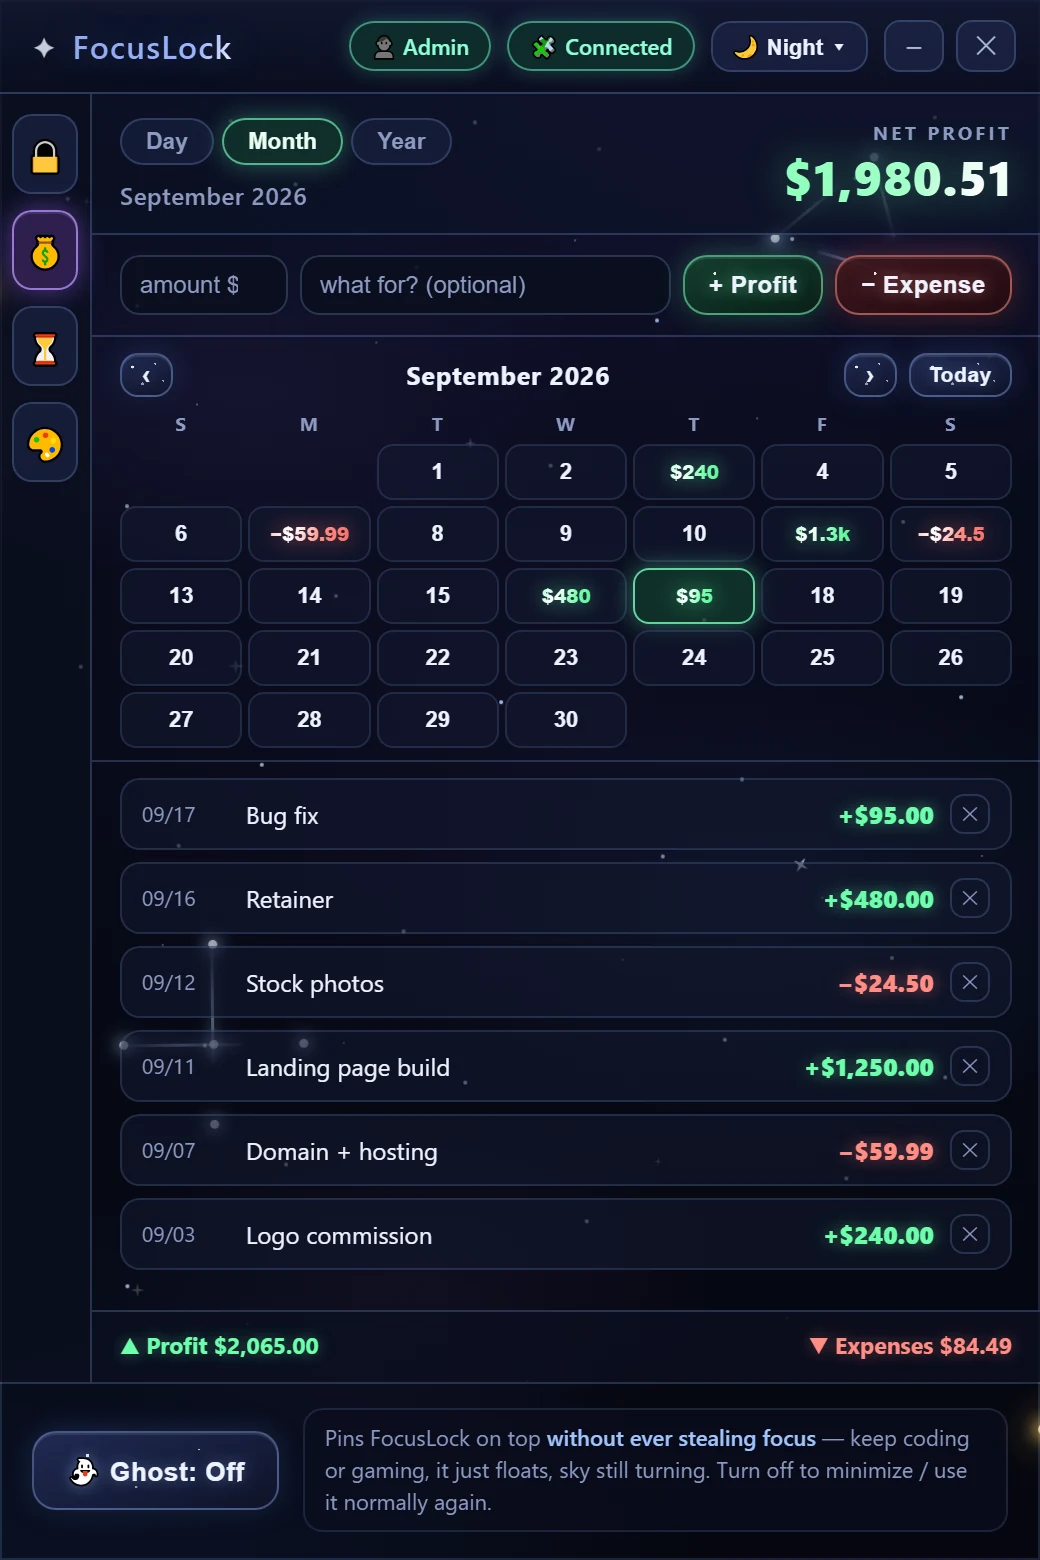
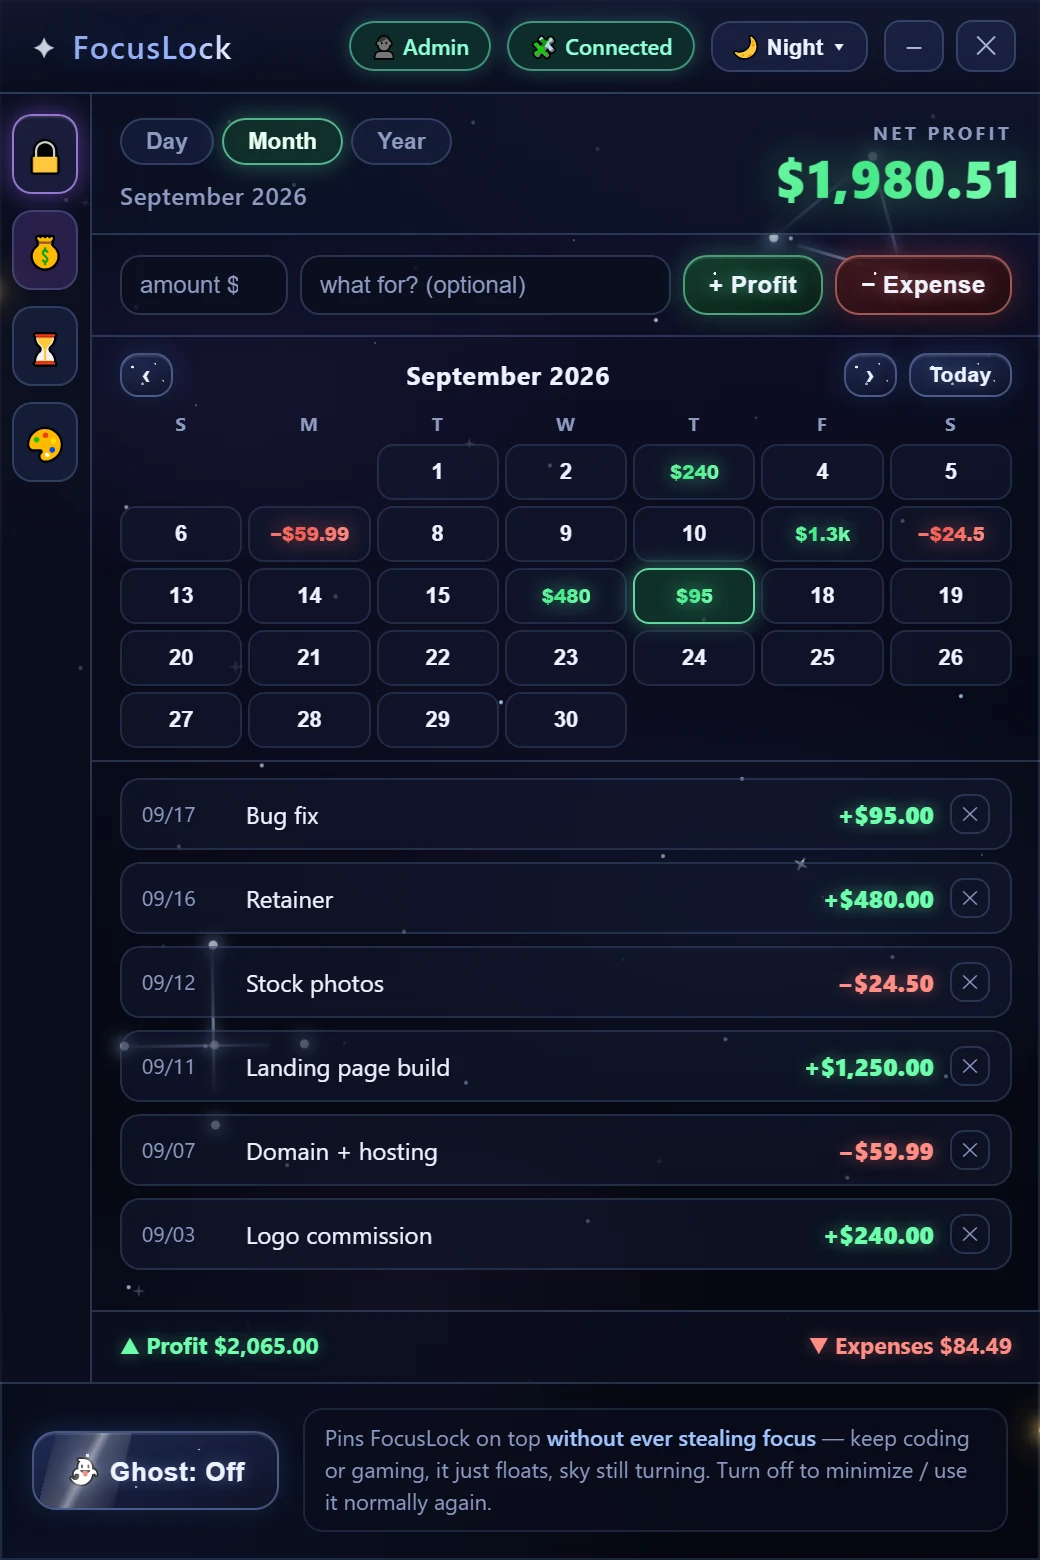
Website for FocusLock 2.1.0

diff --git a/styles.css b/styles.css
@@ -390,6 +390,220 @@ footer {
   color: var(--muted);
 }
 
+/* ============================================================
+   MOTION
+   The same vocabulary as the app: a sky that turns, light that
+   sweeps, things that breathe. Every animation is transform or
+   opacity on its own layer, and all of it is switched off under
+   prefers-reduced-motion at the end of this file.
+   ============================================================ */
+
+/* the nebula photo drifts and breathes, very slowly */
+.hero::before { animation: nebula 90s ease-in-out infinite alternate; }
+
+@keyframes nebula {
+  from { transform: scale(1.06) translate3d(-10px, 0, 0); }
+  to   { transform: scale(1.11) translate3d(10px, -12px, 0); }
+}
+
+/* the star layer sits over the veil but under the text */
+.hero .sky {
+  position: absolute;
+  inset: 0;
+  z-index: 0;
+  overflow: hidden;
+  pointer-events: none;
+}
+
+.hero-copy,
+.hero-shot { position: relative; z-index: 1; }
+
+/* each layer is one element: the stars are a painted box-shadow list,
+   and only the layer's opacity animates */
+.stars {
+  position: absolute;
+  top: 0;
+  left: 0;
+  width: 2px;
+  height: 2px;
+  border-radius: 50%;
+  background: transparent;
+}
+
+.s1 {
+  box-shadow:
+    60px 90px 0 0 #ffffff, 180px 220px 0 0 #dce8ff, 320px 60px 0 0 #ffffff,
+    430px 300px 0 0 #eaf2ff, 520px 150px 0 0 #ffffff, 90px 380px 0 0 #dce8ff,
+    250px 470px 0 0 #ffffff, 610px 420px 0 0 #eaf2ff, 700px 120px 0 0 #ffffff,
+    780px 330px 0 0 #dce8ff, 860px 210px 0 0 #ffffff, 960px 460px 0 0 #eaf2ff,
+    1050px 90px 0 0 #ffffff, 1140px 280px 0 0 #dce8ff, 1220px 400px 0 0 #ffffff,
+    150px 540px 0 0 #eaf2ff, 480px 590px 0 0 #ffffff, 820px 560px 0 0 #dce8ff,
+    1180px 620px 0 0 #ffffff;
+  animation: twinkle 5s ease-in-out infinite;
+}
+
+.s2 {
+  width: 1px;
+  height: 1px;
+  box-shadow:
+    120px 160px 0 0 rgba(180, 205, 255, 0.85), 270px 320px 0 0 rgba(200, 215, 255, 0.75),
+    390px 110px 0 0 rgba(180, 205, 255, 0.8), 560px 250px 0 0 rgba(200, 215, 255, 0.7),
+    650px 520px 0 0 rgba(180, 205, 255, 0.8), 740px 200px 0 0 rgba(200, 215, 255, 0.7),
+    900px 350px 0 0 rgba(180, 205, 255, 0.75), 1010px 170px 0 0 rgba(200, 215, 255, 0.7),
+    1100px 500px 0 0 rgba(180, 205, 255, 0.8), 1260px 230px 0 0 rgba(200, 215, 255, 0.7),
+    40px 260px 0 0 rgba(180, 205, 255, 0.7), 340px 620px 0 0 rgba(200, 215, 255, 0.7),
+    960px 640px 0 0 rgba(180, 205, 255, 0.75);
+  animation: twinkle 7.5s ease-in-out infinite;
+  animation-delay: -3s;
+}
+
+@keyframes twinkle {
+  0%, 100% { opacity: 0.35; }
+  50%      { opacity: 1; }
+}
+
+/* a comet crosses now and then */
+.hero .comet {
+  position: absolute;
+  top: 12%;
+  right: -120px;
+  width: 90px;
+  height: 2px;
+  border-radius: 2px;
+  background: linear-gradient(90deg, rgba(255, 255, 255, 0.95), rgba(160, 200, 255, 0.35) 40%, rgba(160, 200, 255, 0));
+  opacity: 0;
+  animation: comet 19s linear infinite;
+}
+
+.hero .comet.c2 {
+  top: 42%;
+  width: 62px;
+  animation-duration: 27s;
+  animation-delay: -11s;
+}
+
+@keyframes comet {
+  0%, 88% { transform: translate3d(0, 0, 0) rotate(143deg);          opacity: 0; }
+  89%     { transform: translate3d(-70px, 52px, 0) rotate(143deg);   opacity: 0.9; }
+  100%    { transform: translate3d(-720px, 540px, 0) rotate(143deg); opacity: 0; }
+}
+
+/* the app window floats, and its aura breathes with it */
+.hero-shot img { animation: float 8s ease-in-out infinite alternate; }
+
+@keyframes float {
+  from { transform: translate3d(0, 6px, 0); box-shadow: 0 0 60px rgba(130, 90, 255, 0.24), 0 26px 60px rgba(0, 0, 8, 0.66); }
+  to   { transform: translate3d(0, -6px, 0); box-shadow: 0 0 84px rgba(130, 90, 255, 0.36), 0 34px 78px rgba(0, 0, 8, 0.72); }
+}
+
+/* the headline's highlight and the numbers in the strip catch a
+   travelling shine, the same one the app uses on its own figures */
+h1 em,
+.strip-item strong {
+  background-size: 300% 100%;
+  animation: shine 4.5s linear infinite;
+}
+
+.strip-item strong {
+  background-image: linear-gradient(110deg,
+    #cfd9ef 0%, #e8eeff 34%,
+    #ffffff 44%, #f6faff 48%,
+    #cfd9ef 58%, #aebbd8 78%, #cfd9ef 100%);
+  -webkit-background-clip: text;
+  background-clip: text;
+  color: transparent;
+}
+
+.strip-item:nth-child(2) strong { animation-delay: -1.1s; }
+.strip-item:nth-child(3) strong { animation-delay: -2.2s; }
+.strip-item:nth-child(4) strong { animation-delay: -3.3s; }
+
+@keyframes shine {
+  0%   { background-position: 100% 0; }
+  100% { background-position: -200% 0; }
+}
+
+/* a glint sweeps the download buttons */
+.btn-big {
+  position: relative;
+  overflow: hidden;
+  isolation: isolate;
+}
+
+.btn-big::after {
+  content: '';
+  position: absolute;
+  top: -40%;
+  bottom: -40%;
+  left: 0;
+  width: 46px;
+  background: linear-gradient(105deg,
+    rgba(255, 255, 255, 0) 0%,
+    rgba(255, 255, 255, 0.2) 42%,
+    rgba(255, 255, 255, 0.48) 50%,
+    rgba(255, 255, 255, 0.2) 58%,
+    rgba(255, 255, 255, 0) 100%);
+  transform: translateX(-80px) skewX(-14deg);
+  opacity: 0;
+  pointer-events: none;
+  animation: glint 5.5s ease-in-out infinite;
+}
+
+@keyframes glint {
+  0%, 56%   { transform: translateX(-80px) skewX(-14deg); opacity: 0; }
+  60%       { opacity: 1; }
+  80%       { transform: translateX(340px) skewX(-14deg); opacity: 1; }
+  81%, 100% { transform: translateX(340px) skewX(-14deg); opacity: 0; }
+}
+
+/* the glow behind the last call to action breathes — on its own layer,
+   so it scales without repainting the section */
+/* overflow:hidden because the glow below is wider than the section —
+   without it the page gains a horizontal scrollbar */
+.closer { position: relative; isolation: isolate; overflow: hidden; }
+
+.closer::before {
+  content: '';
+  position: absolute;
+  inset: -10% -20% 20%;
+  z-index: -1;
+  background: radial-gradient(closest-side, rgba(120, 80, 220, 0.3), rgba(120, 80, 220, 0) 100%);
+  animation: closerglow 9s ease-in-out infinite alternate;
+}
+
+@keyframes closerglow {
+  from { opacity: 0.55; transform: scale(0.94); }
+  to   { opacity: 1;    transform: scale(1.08); }
+}
+
+/* ---- scroll-driven reveals ----
+   Behind @supports on purpose: where scroll-driven animation isn't
+   available nothing runs and every section is simply visible, which
+   is the one thing a download page must never get wrong. */
+@supports (animation-timeline: view()) {
+  @media (prefers-reduced-motion: no-preference) {
+    .card,
+    .steps li,
+    .gallery figure,
+    .strip-item,
+    details,
+    .honest p,
+    .closer img {
+      animation: rise linear both;
+      animation-timeline: view();
+      animation-range: entry 6% cover 32%;
+    }
+
+    /* the strip reads as one row, so its cells rise together */
+    .strip-item { animation-range: entry 2% cover 22%; }
+  }
+
+  @keyframes rise {
+    from { opacity: 0; transform: translateY(20px); }
+    to   { opacity: 1; transform: none; }
+  }
+}
+
 @media (prefers-reduced-motion: reduce) {
   html { scroll-behavior: auto; }
   * { animation: none !important; transition: none !important; }

diff --git a/index.html b/index.html
@@ -36,6 +36,14 @@
 
 <main id="top">
   <section class="hero">
+    <!-- the sky above the nebula photo: two twinkling star layers and a
+         couple of comets that cross every so often -->
+    <div class="sky" aria-hidden="true">
+      <i class="stars s1"></i>
+      <i class="stars s2"></i>
+      <i class="comet c1"></i>
+      <i class="comet c2"></i>
+    </div>
     <div class="hero-copy">
       <p class="eyebrow">Windows 10 &amp; 11 · 64-bit</p>
       <h1>Disable the distraction.<br><em>Keep</em> it disabled.</h1>
@@ -51,7 +59,7 @@
         <a class="btn btn-ghost btn-big" href="#install">How it works</a>
       </div>
       <p class="fineprint">
-        <span data-version>v2.0.0</span> · installer, no admin rights needed ·
+        <span data-version>v2.1.0</span> · installer, no admin rights needed ·
         installs like any normal program
       </p>
       <p class="platform-note" data-platform-note hidden>
@@ -134,8 +142,8 @@
     </figure>
     <figure>
       <img src="assets/shot-knight.webp" width="520" height="780"
-           alt="The same app in its Knight theme: a daytime medieval scene behind stone and gold panels." loading="lazy">
-      <figcaption>Tired of space? The Knight theme trades the night sky for a castle and cattle.</figcaption>
+           alt="The same app in its Knight theme: a towering armoured knight standing in fog behind blackened steel panels, with embers drifting up the window." loading="lazy">
+      <figcaption>Tired of space? The Knight theme swaps the night sky for a knight in the fog, ash still rising.</figcaption>
     </figure>
   </section>
 
@@ -248,7 +256,7 @@
     <img src="assets/icon-256.png" width="96" height="96" alt="">
     <h2>Switch it off and get on with it</h2>
     <a class="btn btn-big" href="https://github.com/coderererere/focuslock-site/releases/latest/download/FocusLock-Setup-x64.exe" data-download>Download for Windows</a>
-    <p class="fineprint"><span data-version>v2.0.0</span> · Windows 10 &amp; 11, 64-bit</p>
+    <p class="fineprint"><span data-version>v2.1.0</span> · Windows 10 &amp; 11, 64-bit</p>
   </section>
 </main>
 
